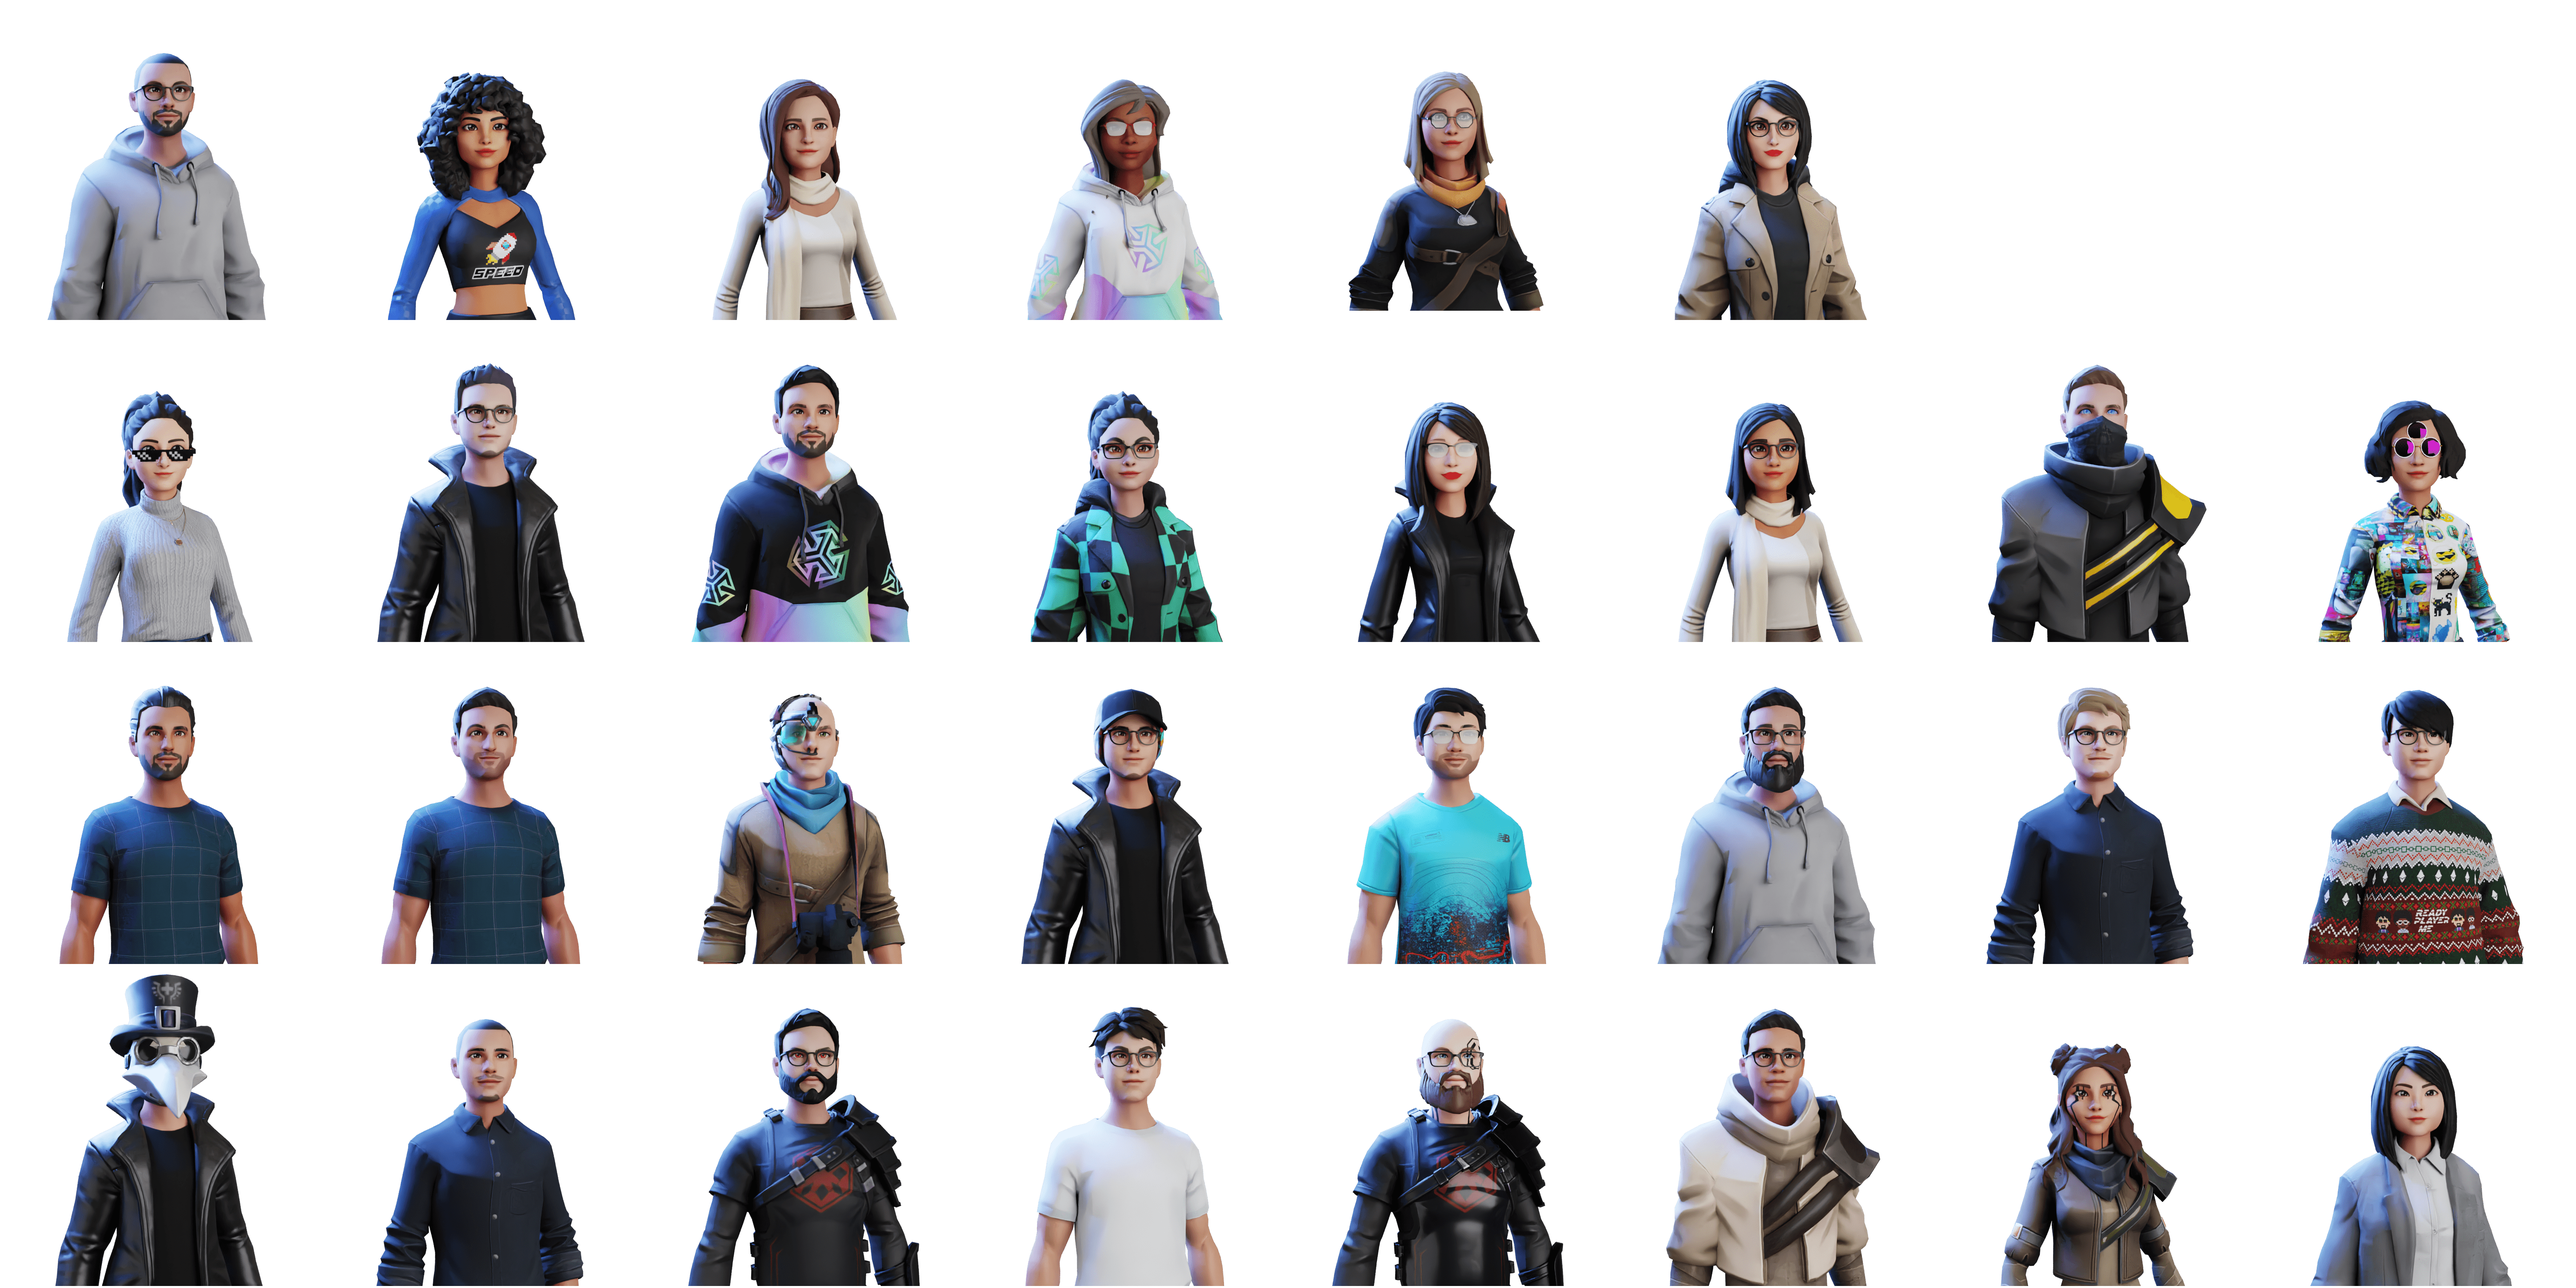
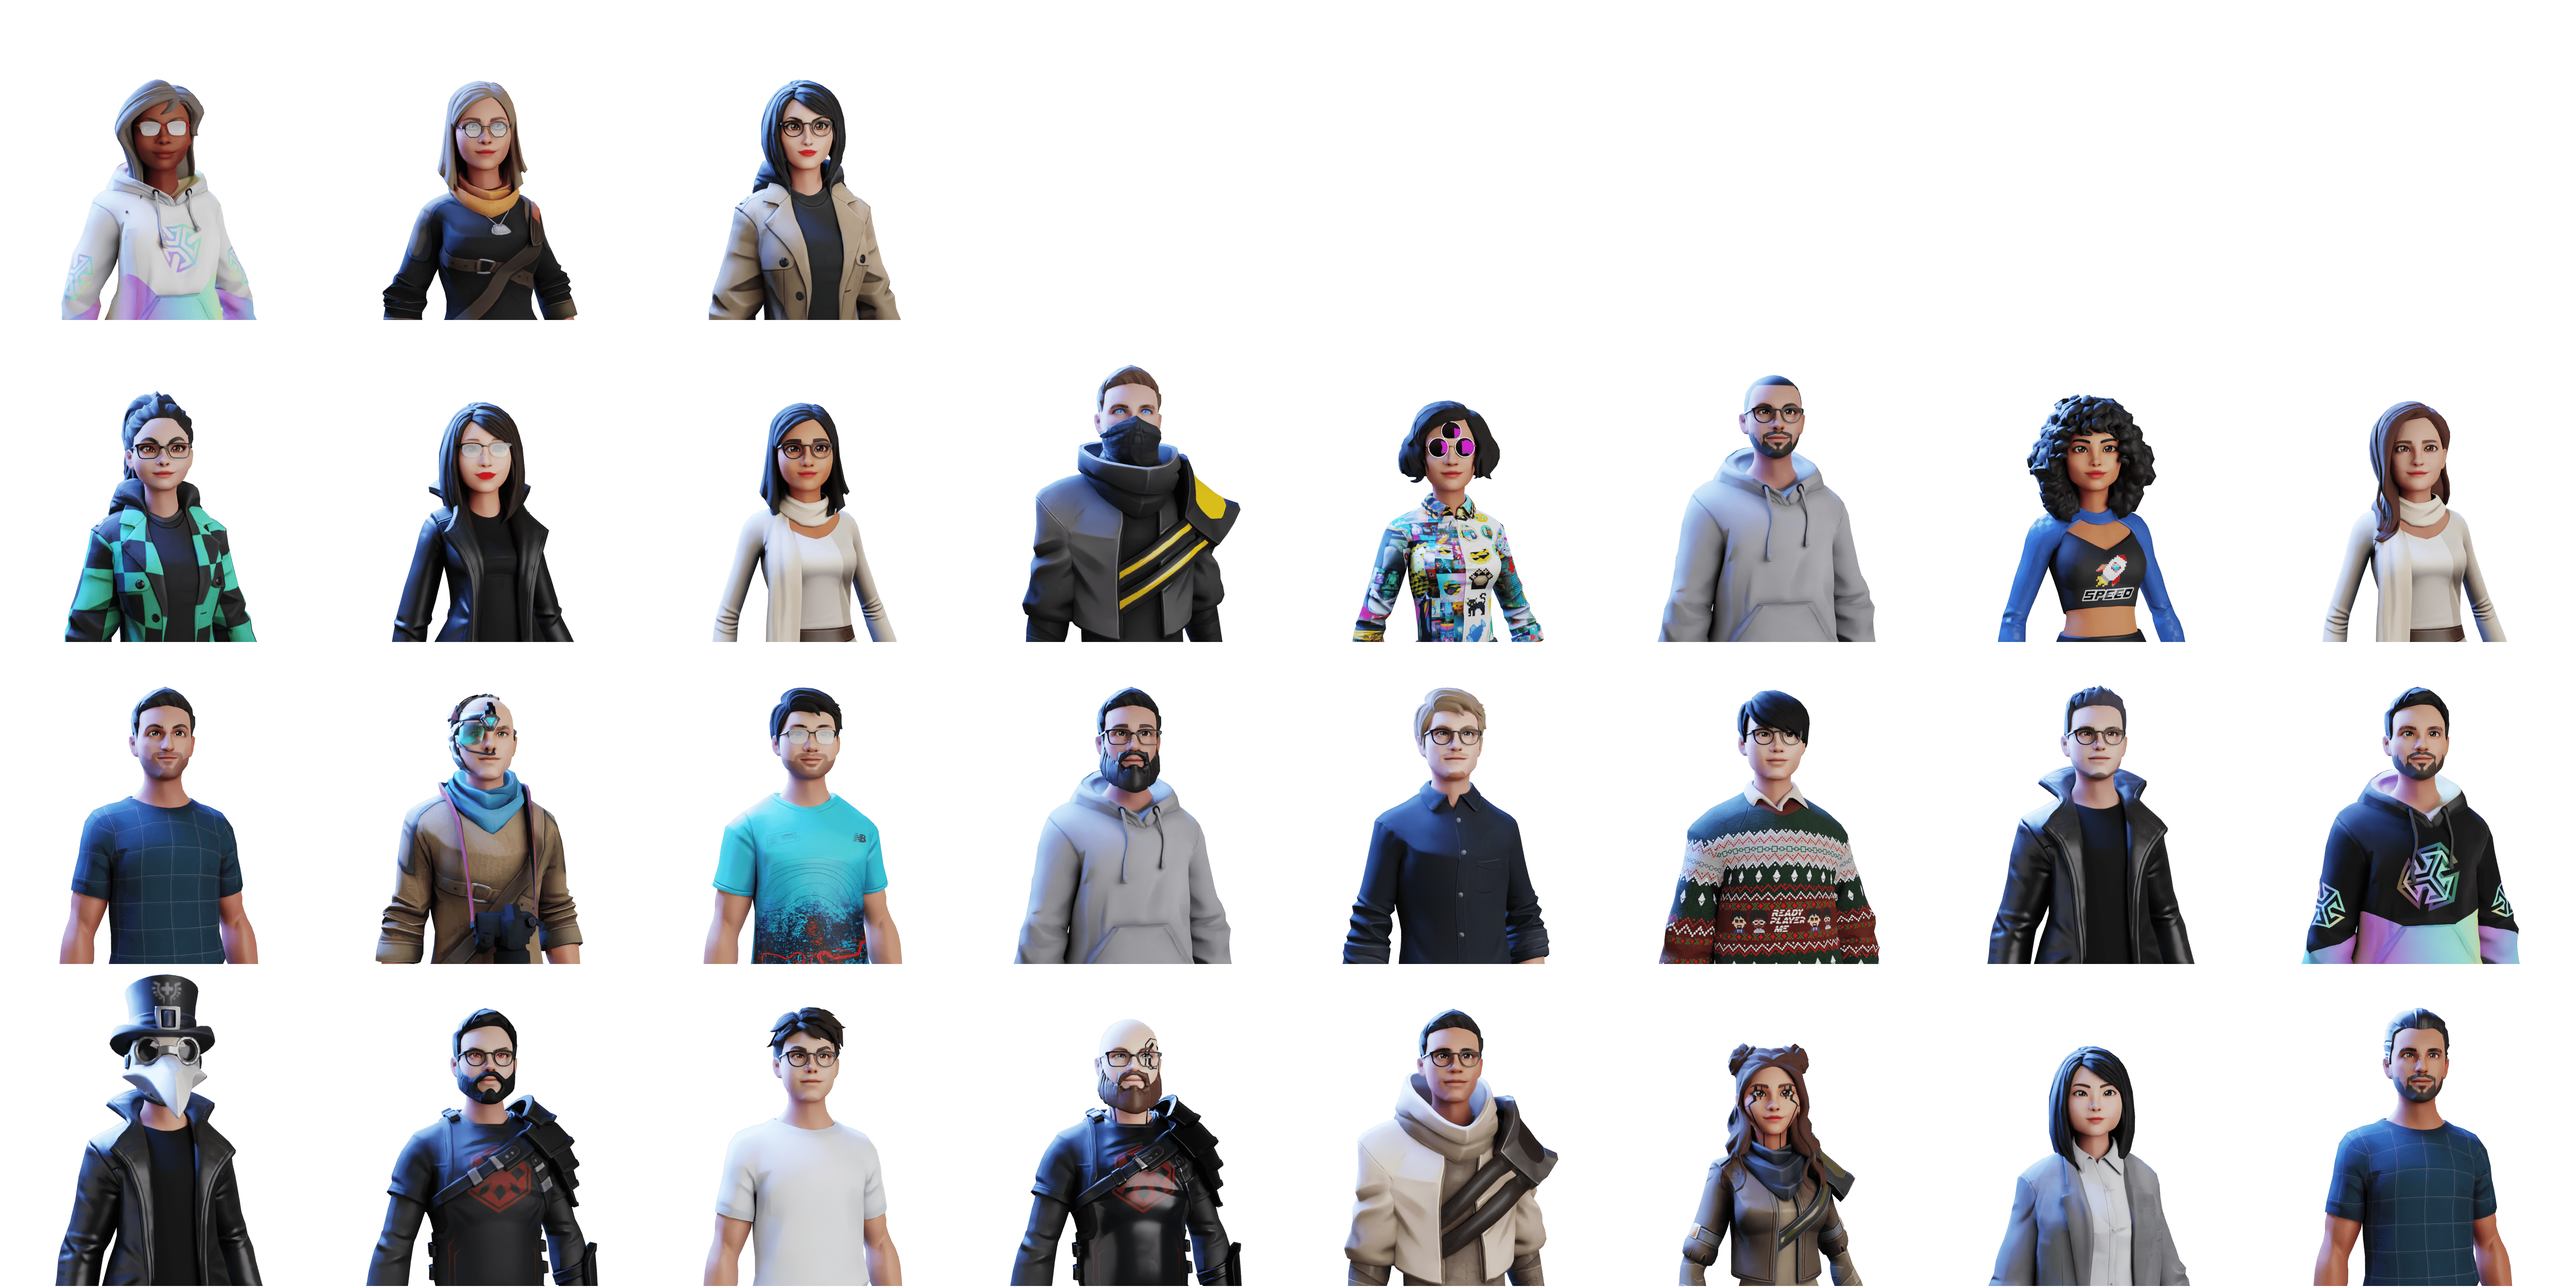
Remove people

diff --git a/src/three/team-experience/Avatars.ts b/src/three/team-experience/Avatars.ts
@@ -60,7 +60,7 @@ export default class Avatars {
     this.time = teamExperience.time
     this.sizes = teamExperience.sizes
 
-    this.count = 30
+    this.count = 27
     this.cards = Array(this.count)
 
     this.texture = new THREE.Texture()
